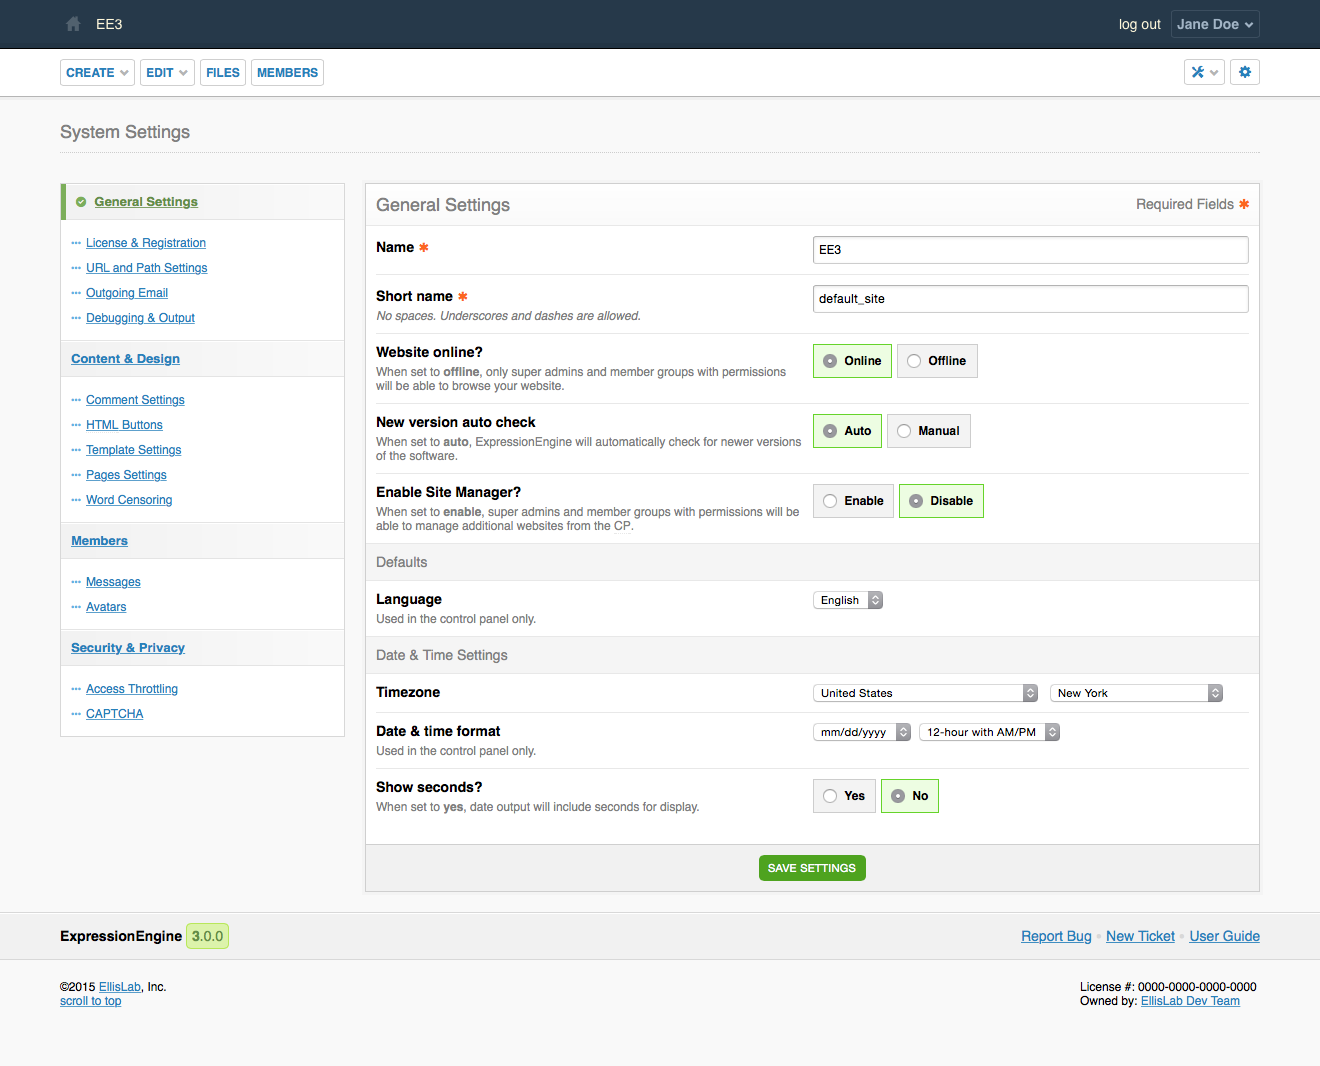
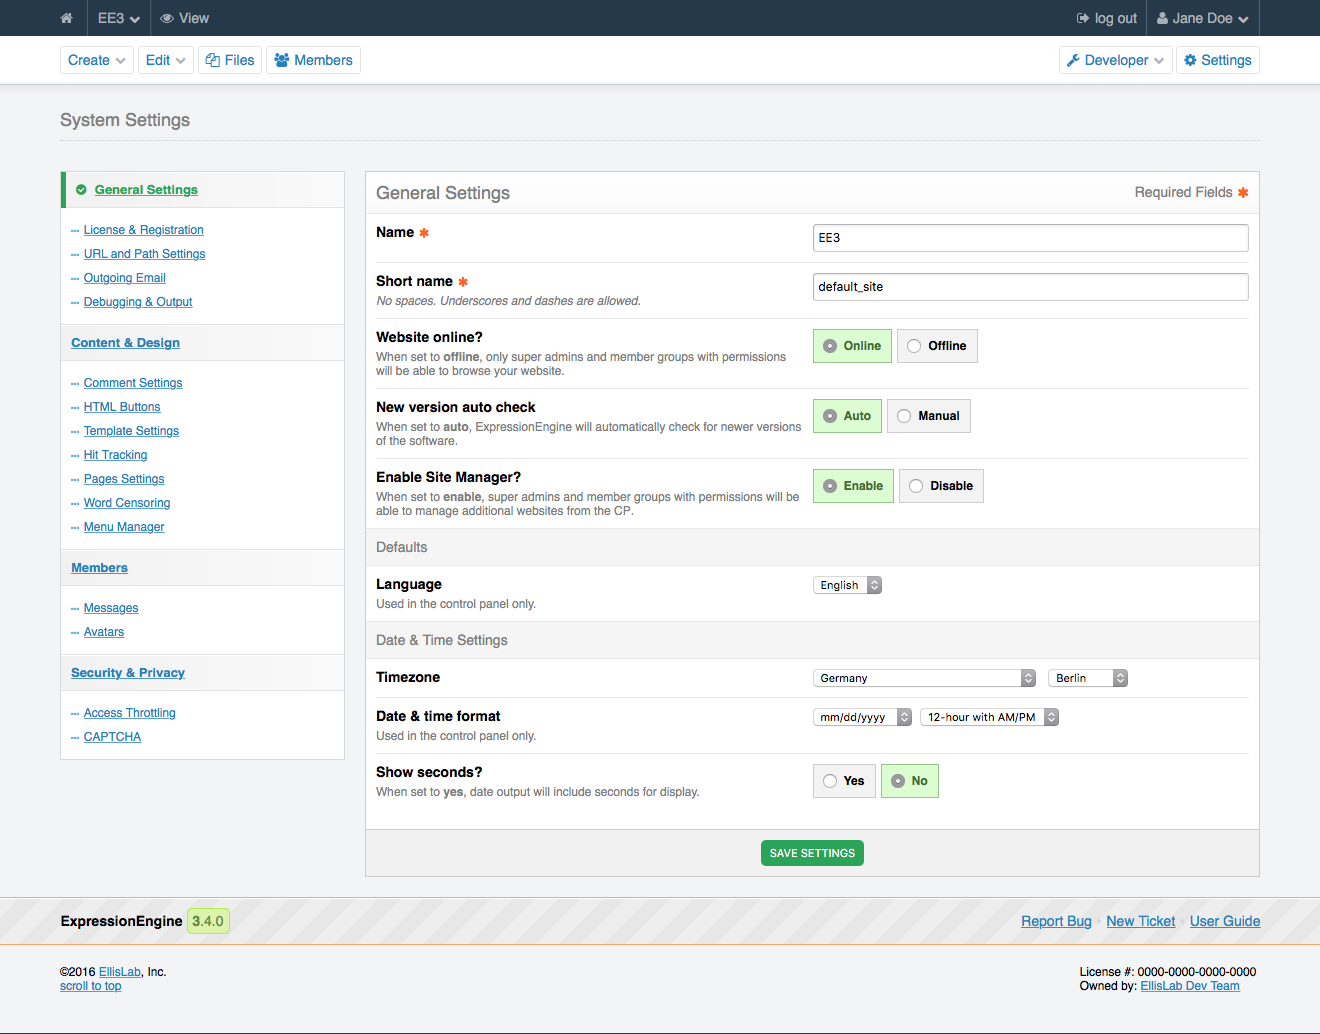
Adding menu section to docs.
Updated 3 images that showed the settings menu to get the menu link in there.

diff --git a/source/cp/settings/menu/form.rst b/source/cp/settings/menu/form.rst
@@ -1,0 +1,89 @@
+Create/Edit Menu Sets
+=====================
+
+.. rst-class:: cp-path
+
+**Control Panel Location:** :menuselection:`Settings --> Menu Sets`
+
+.. Overview
+
+This section of the Control Panel allows you to define your menu sets and assign them to member groups.
+
+.. Screenshot (optional)
+
+.. Permissions
+
+Permission Restrictions
+-----------------------
+
+* Access settings: General Settings
+
+Fields
+------
+
+.. contents::
+  :local:
+  :depth: 1
+
+.. Each Field
+
+Name
+~~~~
+
+The name of the menu set.
+
+Member Groups
+~~~~~~~~~~~~~
+
+The member group(s) the menu set is assigned to.  Only members in the specified groups will see this menu.
+
+.. note:: Be careful not to create links to pages the assigned member group does not have access to or they will end up on an error page with a denied access message.
+
+Menu Items
+~~~~~~~~~~
+
+View, set the sort order and delete all existing menu items in this set.
+
+
+Add Menu Items
+==============
+
+Clicking the **Add Menu Item** button will bring up a form in a modal.  You will first need to specify the type of menu item you are creating.
+
+Add-On
+------
+
+ExpressionEngine add-ons may include their own pre-set menu items.  This is often the case when it's useful to have ready access to multiple sections of the add-on.  If any installed add-ons include a pre-set menu section, it will be selectable under the 'Add-on' menu type.
+
+Single Link
+-----------
+
+This option allows you to add a single link, either to an external URL or to a page in the control panel.
+
+Name
+~~~~
+
+The text to display in the menu.
+
+URL
+~~~
+
+The URL for the menu item.  This may be an external or an internal URL.
+
+Dropdown
+--------
+
+With complex menus, you may want to break your navigation up into nested subsections.  The dropdown menu type allows you to do this.
+
+Name
+~~~~
+
+The top level name for this section to dispaly in the menu.
+
+Submenu
+~~~~~~~
+
+The name and url for each sub-menu item.  This list is drag and drop sortable, and existing items may be deleted by clicking the trash icon.
+
+
+

diff --git a/source/cp/settings/menu/index.rst b/source/cp/settings/menu/index.rst
@@ -1,0 +1,66 @@
+Menu Manager
+============
+
+.. rst-class:: cp-path
+
+**Control Panel Location:** :menuselection:`Settings --> Menu Manager`
+
+.. Overview
+
+The menu manager allows you to create customized third tier menus for display in the control panel.
+
+You may create multiple menu sets and assign them to show for specific member groups.  A member group may only be assigned a single menu set.
+
+.. Screenshot (optional)
+
+.. Permissions
+
+Permission Restrictions
+-----------------------
+
+* Access settings: General Settings
+
+Actions
+-------
+
+.. contents::
+  :local:
+
+.. Each Action
+
+Create New
+~~~~~~~~~~
+
+This will take you to the :doc:`create form <form>`.
+
+
+Manage
+~~~~~~
+
+The icons in the manage column perform actions on the button in its row.
+
+Edit
+^^^^
+
+This will take you to the :doc:`edit form <form>`.
+
+Bulk Actions
+~~~~~~~~~~~~
+
+The checkbox in the right-most column of the table selects a button for a bulk
+action. When at least one checkbox is checked the bulk action dropdown menu and
+submit button will be made available in the lower righthand corner of the table.
+
+Remove
+^^^^^^
+
+The selected menu sets will be removed. Removing menu sets will cause a
+confirmation modal to appear that will summarize the action.
+
+
+.. toctree::
+	:glob:
+	:hidden:
+	:titlesonly:
+
+	*

diff --git a/source/cp/index.rst b/source/cp/index.rst
@@ -56,8 +56,10 @@ Developer Tools
   - :doc:`settings/comments`
   - :doc:`settings/buttons/index`
   - :doc:`settings/template`
+  - :doc:`settings/hit-tracking`
   - :doc:`/add-ons/pages/control_panel/index`
   - :doc:`settings/word-censor`
+  - :doc:`settings/menu/index`
 
 - :doc:`settings/members`
 
@@ -81,3 +83,4 @@ Developer Tools
   settings/index
   footer
   overview
+

diff --git a/source/cp/settings/index.rst b/source/cp/settings/index.rst
@@ -29,6 +29,7 @@ Contents
   - :doc:`hit-tracking`
   - :doc:`/add-ons/pages/control_panel/index`
   - :doc:`word-censor`
+  - :doc:`menu/index`
 
 - :doc:`members`
 
@@ -47,3 +48,4 @@ Contents
 
   *
   buttons/index
+
